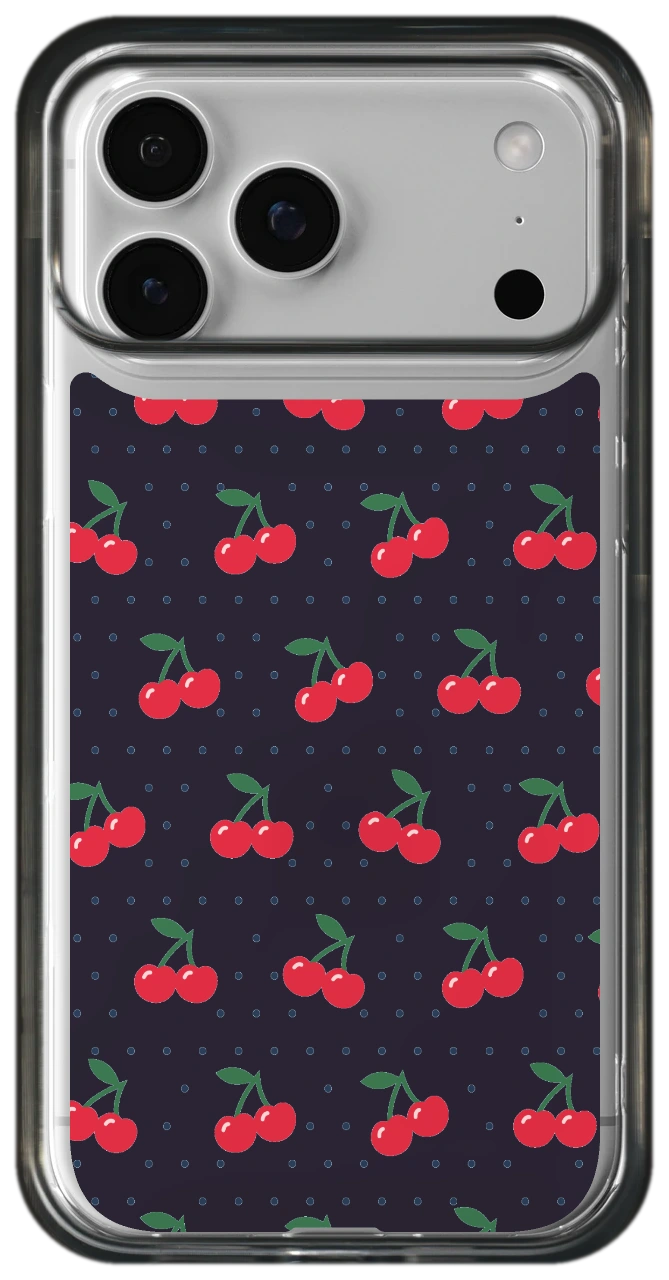
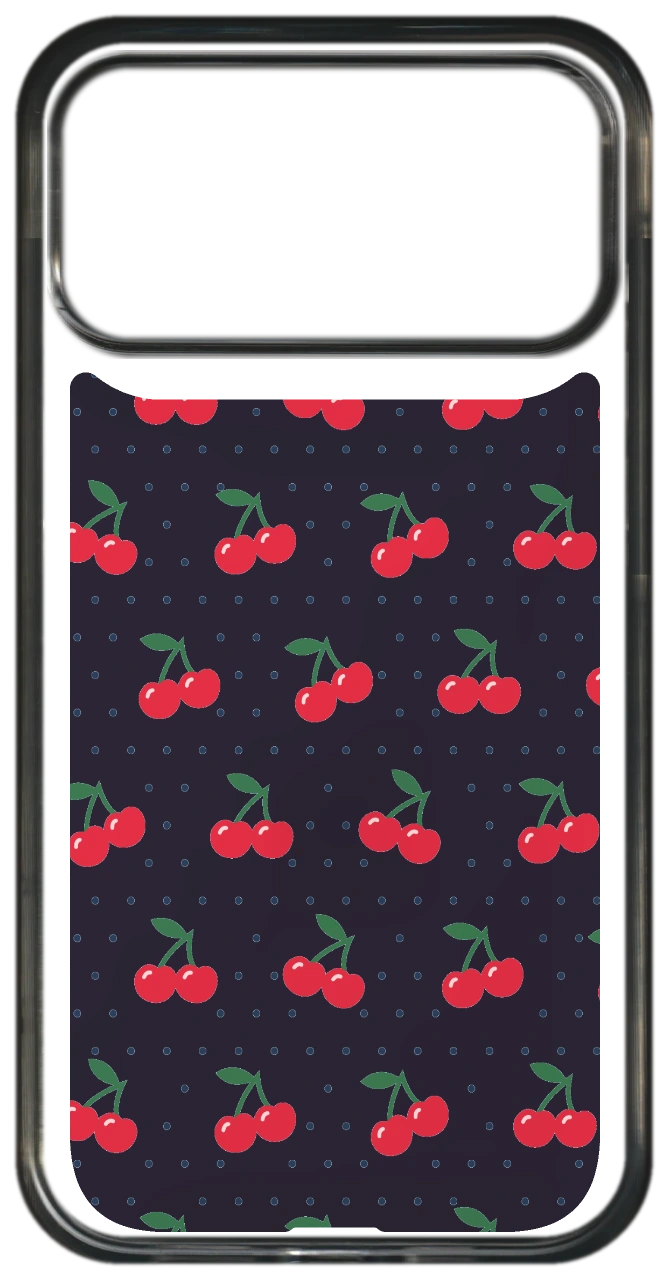
Show case-only previews and smooth the mobile counter journey

Changed region(s): [[0.0598, 0.0312, 0.9567, 0.9688]]

diff --git a/gallery.html b/gallery.html
@@ -88,7 +88,7 @@ h1{font-family:"Bricolage Grotesque","Nunito Sans",sans-serif;font-weight:800;le
   #grid .case-zoom-button canvas{display:block;width:100%;height:100%!important;object-fit:cover}
 </style>
 <link rel="stylesheet" href="assets/storefront.css">
-<script src="assets/case-shell.js"></script>
+<script src="assets/case-shell.js?v=case-view-2"></script>
 <script src="assets/print-layouts.js"></script>
 <script src="assets/colorway-catalog.js"></script>
 <script src="assets/design-colorways.js"></script>
@@ -129,6 +129,7 @@ h1{font-family:"Bricolage Grotesque","Nunito Sans",sans-serif;font-weight:800;le
       <div id="colorBar" style="display:flex;gap:10px;flex-wrap:wrap;align-items:center;margin-bottom:30px"></div>
       <div class="kpStep" id="step3Lab"><span class="kpStepN">3</span><span style="font-weight:900;font-size:15px;color:#2D2D3B">Tap a case you love</span></div>
       <div id="kpChips" style="position:sticky;top:0;z-index:45;display:none;background:rgba(255,255,255,.96);backdrop-filter:blur(8px);margin:0 -20px 10px;padding:10px 20px;border-bottom:1px solid #EFEDED;overflow-x:auto;white-space:nowrap;scrollbar-width:none"></div>
+      <div id="galleryCaseView" class="case-view-switch" role="group" aria-label="Case preview view" hidden style="width:max-content;margin:0 0 16px"><button type="button" data-view="case" aria-pressed="true">Case only</button><button type="button" data-view="phone" aria-pressed="false">On your phone</button></div>
       <div id="grid" style="min-height:70vh;display:grid;align-content:start;grid-template-columns:repeat(auto-fill,minmax(240px,1fr));gap:20px"></div>
     </div>
   </main>
@@ -195,6 +196,8 @@ h1{font-family:"Bricolage Grotesque","Nunito Sans",sans-serif;font-weight:800;le
       + '<button class="kpBrowseAllBtn" style="display:block;width:100%;max-width:420px;margin:24px auto 8px;background:#DC282E;color:#FFFFFF;border:0;padding:16px;border-radius:999px;font-size:14px;font-weight:900;letter-spacing:.05em;text-transform:uppercase;cursor:pointer">Browse all '+total+' designs</button></div>';
   }
   var entryParams = new URLSearchParams(location.search);
+  var previewMode=entryParams.get('view')==='phone'?'phone':'case';
+  window.__kpLimit=Math.min(1008,Math.max(48,Number(entryParams.get('n'))||48));
   if (entryParams.has('device')){
     var dp = entryParams.get('device').toLowerCase();
     var dp2 = dp.replace(/^(samsung|google)-/, '');
@@ -339,6 +342,7 @@ h1{font-family:"Bricolage Grotesque","Nunito Sans",sans-serif;font-weight:800;le
     card.querySelectorAll('a[href*="customizer.html"]').forEach(function(a){
       var url=new URL(a.href);
       url.searchParams.set('finish',chosen.n);
+      url.searchParams.set('view',previewMode);
       url.searchParams.set('colorway',artworkPicks[file]||'original');
       a.href=url.href;
     });
@@ -371,7 +375,7 @@ h1{font-family:"Bricolage Grotesque","Nunito Sans",sans-serif;font-weight:800;le
     loadDesign(file,function(){showPickedColor(card.querySelector('canvas'));});
   });
   function previewKey(file,finish){
-    return JSON.stringify([device,file,finish,artworkPicks[file]||'original']);
+    return JSON.stringify([device,file,finish,artworkPicks[file]||'original',previewMode]);
   }
   function renderCase(cv, file, colorIdx){
     if(!cv.width||!cv.isConnected||colorIdx!==+cv.dataset.color)return;
@@ -403,7 +407,8 @@ h1{font-family:"Bricolage Grotesque","Nunito Sans",sans-serif;font-weight:800;le
     var dev=KP_DEVICES[device],CW=cv.width,CH=cv.height,S=CW/2500;
     var ctx = cv.getContext('2d');
     ctx.clearRect(0, 0, CW, CH);
-    ctx.drawImage(layer, 0, 0, CW, CH);
+    var emptyCase=previewMode==='case'&&KPCaseShell.drawEmpty(ctx,device,CW,CH,vmask);
+    if(!emptyCase)ctx.drawImage(layer, 0, 0, CW, CH);
 
     // A known stencil is loading: show the phone until its actual panel is ready.
     if (KP_VIEW[device] && !vmask){
@@ -427,7 +432,7 @@ h1{font-family:"Bricolage Grotesque","Nunito Sans",sans-serif;font-weight:800;le
       tc.globalAlpha = 1; tc.globalCompositeOperation = 'destination-in';
       tc.drawImage(vmask, 0, 0, CW, CH);
       // Preserve the photographed silhouette, including its antialiased corners.
-      if(device==='iPhone 18 Pro Max'||device==='iPhone 18 Pro') ctx.globalCompositeOperation='source-atop';
+      if(!emptyCase&&(device==='iPhone 18 Pro Max'||device==='iPhone 18 Pro')) ctx.globalCompositeOperation='source-atop';
       ctx.drawImage(t, 0, 0);
       ctx.globalCompositeOperation='source-over';
       KPCaseShell.draw(ctx,device,CW,CH);
@@ -487,7 +492,7 @@ h1{font-family:"Bricolage Grotesque","Nunito Sans",sans-serif;font-weight:800;le
       try{return await detailedCase(model,finish,design,pick);}
       catch(error){
         const thumb=trigger.querySelector('canvas');
-        if(thumb?.width && thumb.dataset.renderedPreview===JSON.stringify([model,design.file,finish,pick]))return thumb;
+        if(thumb?.width && thumb.dataset.renderedPreview===JSON.stringify([model,design.file,finish,pick,previewMode]))return thumb;
         throw error;
       }
     },
@@ -543,6 +548,8 @@ h1{font-family:"Bricolage Grotesque","Nunito Sans",sans-serif;font-weight:800;le
     document.body.style.overflow='hidden';
   }
   function kpCloseDrawer(){
+    var opened=document.getElementById('kpDevScrim');
+    if(!opened || opened.style.pointerEvents!=='auto')return;
     pendingDesign=null;
     var sc=document.getElementById('kpDevScrim'), dw=document.getElementById('kpDevDrawer');
     if(!sc) return;
@@ -557,9 +564,11 @@ h1{font-family:"Bricolage Grotesque","Nunito Sans",sans-serif;font-weight:800;le
     var file = pendingDesign;
     kpCloseDrawer();
     if (file && selected) {
+      device=selected;saveBrowseFilters();
       location.assign('customizer.html?' + new URLSearchParams({design:file,model:slugify(selected),colorway:artworkPicks[file]||'original'}));
       return;
     }
+    if(!slug)return;
     device = selected;
     renderDeviceBar(); renderGrid();
     preloadDevice(device);
@@ -582,7 +591,7 @@ h1{font-family:"Bricolage Grotesque","Nunito Sans",sans-serif;font-weight:800;le
       var cur = m===device ? '<span style="margin-left:auto;color:#DC282E;font-weight:900">\u2713</span>' : '';
       return '<button data-md="'+slugify(m)+'" style="display:flex;align-items:center;width:100%;text-align:left;background:#FFF;border:1.5px solid '+(m===device?'#17171F':'#E9E7E4')+';border-radius:16px;padding:17px 20px;font-size:16.5px;font-weight:700;color:#17171F;cursor:pointer;margin:0 0 12px">'+m+badge+cur+'</button>';
     }).join('');
-    var flat='<button data-md="" style="display:block;width:100%;background:none;border:0;padding:14px;font-size:13.5px;font-weight:800;color:#6C6C72;cursor:pointer;text-decoration:underline;text-underline-offset:3px">Just browsing \u2014 show all cases</button>';
+    var flat='<button data-md="" style="display:block;width:100%;background:none;border:0;padding:14px;font-size:13.5px;font-weight:800;color:#6C6C72;cursor:pointer;text-decoration:underline;text-underline-offset:3px">Back to browsing</button>';
     dw.innerHTML=head+pills+'<div style="flex:1;overflow-y:auto;-webkit-overflow-scrolling:touch;padding:14px 20px 6px">'+rows+'</div>'+flat;
     dw.querySelector('#kpDwClose').addEventListener('click',kpCloseDrawer);
     dw.querySelectorAll('[data-pill]').forEach(function(b){ b.addEventListener('click',function(){ drawerBrand=this.dataset.pill; kpRenderDrawer();dw.querySelector('[data-pill="'+drawerBrand+'"]').focus(); }); });
@@ -625,7 +634,7 @@ h1{font-family:"Bricolage Grotesque","Nunito Sans",sans-serif;font-weight:800;le
     var sel=document.getElementById('wizCat');
     sel.addEventListener('change',function(){
       filter=this.value; searchQ='';
-      var si2=document.getElementById('wizSearch'); if(si2) si2.value='';
+      var si2=document.getElementById('wizSearch'); if(si2) si2.value=''; $('deskSearch').value='';
       renderFilters(); renderStates(); renderGrid();
     });
     var si=document.getElementById('wizSearch');
@@ -644,7 +653,7 @@ h1{font-family:"Bricolage Grotesque","Nunito Sans",sans-serif;font-weight:800;le
     var filters = {
       device: device && slugify(device), cat: filter === 'All' ? null : filter,
       q: searchQ, color: colorSel, state: filter === 'City maps' && stateSel,
-      all: kpBrowseAll && '1'
+      all: kpBrowseAll && '1', n:window.__kpLimit>48?window.__kpLimit:null, view:device&&previewMode==='phone'?'phone':null
     };
     Object.entries(filters).forEach(function(pair) {
       if (pair[1]) url.searchParams.set(pair[0], pair[1]);
@@ -719,7 +728,17 @@ h1{font-family:"Bricolage Grotesque","Nunito Sans",sans-serif;font-weight:800;le
 
   function canBuy(){ return !!(window.KP_VARIANTS && window.KP_VARIANTS['MagSafe Clear'] && window.KP_VARIANTS['MagSafe Clear'][device]); }
 
+  function syncCaseView(){
+    var panel=$('galleryCaseView');panel.hidden=!device||!KPCaseShell.canShowEmpty(device);
+    panel.querySelectorAll('button').forEach(function(b){b.setAttribute('aria-pressed',String(b.dataset.view===previewMode));});
+  }
+  function setCaseView(mode){
+    previewMode=mode;syncCaseView();saveBrowseFilters();
+    document.querySelectorAll('.kpCard').forEach(updateCaseLinks);refreshVisible();
+  }
+  $('galleryCaseView').addEventListener('click',function(e){var b=e.target.closest('[data-view]');if(b)setCaseView(b.dataset.view);});
   function renderGrid(){
+    syncCaseView();
     if(io)io.disconnect();
     saveBrowseFilters();
     kpChipsSync();
@@ -904,6 +923,7 @@ h1{font-family:"Bricolage Grotesque","Nunito Sans",sans-serif;font-weight:800;le
     if (dot){
       e.preventDefault();
       var card = dot.closest('.kpCard'); var cv = card.querySelector('canvas');
+      setCaseView('phone');
       var ci = +dot.dataset.ci; finishPicks.set(device+'|'+card.dataset.file, ci); card.dataset.selectedColor=ci;updateCaseLinks(card);
       cv.dataset.color = ci;
       loadCase(device, ci, function(){ renderCase(cv, cv.dataset.file, ci); });
@@ -941,7 +961,7 @@ h1{font-family:"Bricolage Grotesque","Nunito Sans",sans-serif;font-weight:800;le
     if (filter !== 'All' && !designs.some(function(x){ return x.category === filter; })) filter = 'All';
     renderDeviceBar(); renderFilters(); renderStates(); renderColors(); renderGrid();
     preloadDevice(device);
-    KPCaseShell.ready.then(refreshVisible);
+    KPCaseShell.ready.then(function(){syncCaseView();refreshVisible();});
     var brand=new URLSearchParams(location.search).get('brand');if(!device&&(brand==='Apple'||brand==='Samsung'))kpOpenDrawer(brand);
   }).catch(function(){
     $('grid').innerHTML = '<div style="padding:40px;font-weight:700;color:#6C6C72">Could not load designs.</div>';

diff --git a/customizer.html b/customizer.html
@@ -12,7 +12,7 @@
 <link rel="stylesheet" href="assets/staff-print.css">
 <script src="assets/print-png.js"></script>
 <script src="assets/print-geometry.js"></script>
-<script src="assets/case-shell.js"></script>
+<script src="assets/case-shell.js?v=case-view-2"></script>
 <script src="assets/mask-geometry.js"></script>
 <script src="assets/print-layouts.js"></script>
 <title>Design your keepsake — Keepsake Printing Co</title>
@@ -105,7 +105,7 @@ body{background:#FFFBF7}
 h1{font-family:"Bricolage Grotesque","Nunito Sans",sans-serif;font-weight:800;letter-spacing:-.01em}
 </style>
 <script src="assets/kp-config.js"></script>
-<script src="https://cdnjs.cloudflare.com/ajax/libs/heic2any/0.0.4/heic2any.min.js" defer></script>
+<script src="assets/heic-loader.js"></script>
 <script src="assets/colorway-catalog.js"></script>
 <script src="assets/design-colorways.js"></script>
 <script src="instore/instore-lib.js"></script>
@@ -149,6 +149,7 @@ h1{font-family:"Bricolage Grotesque","Nunito Sans",sans-serif;font-weight:800;le
             <canvas id="stageCanvas" width="2500" height="3000" style="display:none"></canvas>
             <!-- non-17PM placeholder note wrapper reuses stageEmpty -->
           </div>
+          <div id="caseViewSwitch" class="case-view-switch" role="group" aria-label="Case preview view" hidden><button type="button" data-view="case" aria-pressed="true">Case only</button><button type="button" data-view="phone" aria-pressed="false">On your phone</button></div>
           <section id="mobileDesignPicker" hidden aria-label="Preview options"></section>
           <button type="button" id="skyCaseZoom" hidden>Enlarge case</button>
           <div id="stageHint" style="font-size:12px;font-weight:700;color:#6C6C72;letter-spacing:.04em">Upload or drop a photo to begin</div>
@@ -436,11 +437,11 @@ h1{font-family:"Bricolage Grotesque","Nunito Sans",sans-serif;font-weight:800;le
   var state = {
     brand:'Apple', model:'iPhone 18 Pro Max', colorName:'Silver', colorHex:'#F5F5F5',
     photo:null, photoImg:null, photoUrl:null, filter:'none', variant:'original',
-    caseType:'MagSafe Clear',
+    caseType:new URLSearchParams(location.search).get('style')==='hybrid'?'Slim Hybrid MagSafe':'MagSafe Clear', previewMode:new URLSearchParams(location.search).get('view')==='phone'?'phone':'case',
     isLibraryDesign:false,
     text:'', textFont:0, textColor:'#FFFFFF', textSize:220, textPos:62, textVertical:false,
     px:0, py:0, scale:1, rot:0,
-    addons:{screen:new URLSearchParams(location.search).get('staff')==='1' && new URLSearchParams(location.search).get('glass')==='1',lens:false}, promo:null, reserved:false, fitMode:'fill',
+    addons:{screen:new URLSearchParams(location.search).get('glass')==='1',lens:new URLSearchParams(location.search).get('lens')==='1'}, promo:null, reserved:false, fitMode:'fill',
     layout:null, photos:[], slotTarget:null, builder:false, designPath:null
   };
   (function(){ var mm = /[?&]model=([^&]+)/.exec(location.search);var staffMode=new URLSearchParams(location.search).get('staff')==='1';if(staffMode){state.handoffErrorType='model';state.handoffError='Choose a valid phone from the print counter before printing.';}if (!mm) return;
@@ -544,7 +545,8 @@ h1{font-family:"Bricolage Grotesque","Nunito Sans",sans-serif;font-weight:800;le
   }
   var requestedFinish=new URLSearchParams(location.search).get('finish');
   var selectedKit=KITS[state.model];
-  if(selectedKit&&selectedKit.colors.some(function(c){return c.n===requestedFinish;}))state.colorName=requestedFinish;
+  var requestedColors=selectedKit&&(state.caseType==='Slim Hybrid MagSafe'&&selectedKit.hybrid?selectedKit.hybrid.colors:selectedKit.colors);
+  if(requestedColors&&requestedColors.some(function(c){return c.n===requestedFinish;}))state.colorName=requestedFinish;
 
   var canvas=$('stageCanvas'), ctx=canvas.getContext('2d');
   canvas.width=DIM.w*PS; canvas.height=DIM.h*PS;
@@ -850,7 +852,11 @@ h1{font-family:"Bricolage Grotesque","Nunito Sans",sans-serif;font-weight:800;le
     ctx.globalCompositeOperation='source-over';
     ctx.globalAlpha=1;
     ctx.clearRect(0,0,DIM.w,DIM.h);
-    ctx.drawImage(caseImg,0,0,DIM.w,DIM.h);
+    var emptyCase=state.previewMode==='case' && KPCaseShell.drawEmpty(ctx,state.model,DIM.w,DIM.h,viewReady&&viewMaskCanvas,state.caseType);
+    if(!emptyCase)ctx.drawImage(caseImg,0,0,DIM.w,DIM.h);
+    var canShowEmpty=!!(viewReady&&viewMaskCanvas&&KPCaseShell.canShowEmpty(state.model,state.caseType));
+    $('caseViewSwitch').hidden=!canShowEmpty;
+    $('caseViewSwitch').querySelectorAll('button').forEach(function(b){b.setAttribute('aria-pressed',String(b.dataset.view===state.previewMode));});
     if(viewImg && !viewReady) {
       KPCaseShell.draw(ctx,state.model,DIM.w,DIM.h,state.caseType);
       return;
@@ -882,7 +888,7 @@ h1{font-family:"Bricolage Grotesque","Nunito Sans",sans-serif;font-weight:800;le
         d2.drawImage(viewMaskCanvas,0,0,DIM.w,DIM.h);
         d2.globalCompositeOperation='source-over';
       } else { d2.restore(); }
-      if(state.model==='iPhone 18 Pro Max'||state.model==='iPhone 18 Pro') ctx.globalCompositeOperation='source-atop';
+      if(!emptyCase&&(state.model==='iPhone 18 Pro Max'||state.model==='iPhone 18 Pro')) ctx.globalCompositeOperation='source-atop';
       ctx.drawImage(dl,0,0,DIM.w,DIM.h);
       ctx.globalCompositeOperation='source-over';
       if(!useMask){
@@ -904,7 +910,7 @@ h1{font-family:"Bricolage Grotesque","Nunito Sans",sans-serif;font-weight:800;le
         t2.drawImage(viewMaskCanvas,0,0,DIM.w,DIM.h);
         t2.globalCompositeOperation='source-over';
       } else { t2.restore(); }
-      if(state.model==='iPhone 18 Pro Max'||state.model==='iPhone 18 Pro') ctx.globalCompositeOperation='source-atop';
+      if(!emptyCase&&(state.model==='iPhone 18 Pro Max'||state.model==='iPhone 18 Pro')) ctx.globalCompositeOperation='source-atop';
       ctx.drawImage(dl2,0,0,DIM.w,DIM.h);
       ctx.globalCompositeOperation='source-over';
       if(!useMask){
@@ -1153,8 +1159,8 @@ h1{font-family:"Bricolage Grotesque","Nunito Sans",sans-serif;font-weight:800;le
     if(f.size>40*1024*1024){kpToast('That photo is over 40MB — please use a smaller copy.');return;}
     if(/heic|heif/i.test(f.type||'')||/\.hei[cf]$/i.test(f.name||'')){
       if(typeof heic2any!=='function'){
-        if(!f.__kpWaited){f.__kpWaited=true;setTimeout(function(){if(current())loadPhoto(f,forceSlot);},1200);kpToast('One moment — getting that photo ready…');}
-        else kpToast('We could not load HEIC support. Try a JPG, PNG, or screenshot.');
+        kpToast('One moment — getting that photo ready…');
+        KPHeic.load().then(function(){if(current())loadPhoto(f,forceSlot);}).catch(function(){if(current())kpToast('We could not load HEIC support. Try again, or choose a JPG, PNG, or screenshot.');});
         return;
       }
       kpToast('Converting your photo…',4000);
@@ -1316,7 +1322,7 @@ h1{font-family:"Bricolage Grotesque","Nunito Sans",sans-serif;font-weight:800;le
   }
   document.addEventListener('click',function(e){
     var s=e.target.closest('.sw');
-    if(s){ state.colorName=s.dataset.n; state.colorHex=s.dataset.h; state.reserved=false;
+    if(s){ state.previewMode='phone'; state.colorName=s.dataset.n; state.colorHex=s.dataset.h; state.reserved=false;
       ['colorName','colorName2','colorName3','colorName4'].forEach(function(id){ var el=$(id); if(el) el.textContent=state.colorName; });
       $('miniPhone').style.background=state.colorHex;
       if (KITS[state.model]) loadKit(state.model);
@@ -1491,6 +1497,14 @@ h1{font-family:"Bricolage Grotesque","Nunito Sans",sans-serif;font-weight:800;le
     else { state.promo=null; m.textContent=code?'Hmm, we don’t recognize that code.':''; m.style.color='#DC282E'; }
     state.reserved=false; updateSummary();
   });
+  function saveLibraryOptions(){
+    var file=state.photoImg&&state.photoImg.__kpDesignFile;
+    if(!state.isLibraryDesign||!file||state.libraryLoading||state.photoImg.__kpIsThumb||new URLSearchParams(location.search).get('staff')==='1')return;
+    var url=new URL(location.href);
+    var options={design:file,model:state.model.toLowerCase().replace(/^samsung /,'').replace(/ /g,'-'),finish:state.colorName,colorway:state.variant,view:state.previewMode,glass:state.addons.screen?'1':null,lens:state.addons.lens?'1':null,store:state.store,style:state.caseType==='Slim Hybrid MagSafe'?'hybrid':null};
+    Object.entries(options).forEach(function(pair){if(pair[1])url.searchParams.set(pair[0],pair[1]);else url.searchParams.delete(pair[0]);});
+    if(url.href!==location.href)history.replaceState(history.state,'',url);
+  }
   function updateSummary(){
     var tkK=KITS[state.model], tOnly=!!(tkK&&tkK.toughOnly);
     /* KP_TOUGH_OFF: tough hidden — case types are Clear + Slim Hybrid (where available) */
@@ -1525,13 +1539,15 @@ h1{font-family:"Bricolage Grotesque","Nunito Sans",sans-serif;font-weight:800;le
       $('discountTop').textContent=p.name+' −$'+disc.toFixed(2); }
     $('reserveBtn').style.display=state.reserved?'none':'block';
     $('reservedBox').style.display=state.reserved?'block':'none';
+    saveLibraryOptions();
   }
   var KP_STORES=[
     {n:'West Chester, PA', a:'CPR Cell Phone Repair · West Chester'},
     {n:'Pottstown, PA', a:'CPR Cell Phone Repair · Pottstown'},
     {n:'Newark, DE', a:'CPR Cell Phone Repair · Newark'}
   ];
-  state.store=state.store||KP_STORES[0].n;
+  var requestedStore=new URLSearchParams(location.search).get('store');
+  state.store=KP_STORES.some(function(s){return s.n===requestedStore;})?requestedStore:KP_STORES[0].n;
   function renderStoreChips(){
     var el=$('storeChips'); if(!el) return;
     el.innerHTML=KP_STORES.map(function(st){
@@ -2139,6 +2155,10 @@ h1{font-family:"Bricolage Grotesque","Nunito Sans",sans-serif;font-weight:800;le
       };
     }
   }
+  $('caseViewSwitch').addEventListener('click',function(e){
+    var button=e.target.closest('[data-view]');if(!button)return;
+    state.previewMode=button.dataset.view;render();saveLibraryOptions();
+  });
   $('skyCaseZoom').onclick=function(){
     KPCaseZoom.open({title:'Your case',trigger:$('skyCaseZoom'),source:()=>{
       if(!caseReady || !lightReady || (viewImg && !viewReady)) throw Error('Case loading');

diff --git a/assets/case-shell.js b/assets/case-shell.js
@@ -67,6 +67,30 @@ window.KPCaseShell = (() => {
   function box(model) {
     return bounds[(model || '').replace(/^Samsung /, '')];
   }
+  function canShowEmpty(model, style = 'MagSafe Clear') {
+    return !!box(model) && /^iPhone /.test(model) && style === 'MagSafe Clear' && !!bumper.naturalWidth;
+  }
+  // A translucent case back using the same fitted panel as the artwork. The
+  // camera opening stays empty; phone cameras/colors belong only in mounted view.
+  const films = new WeakMap();
+  function drawEmpty(ctx, model, width, height, mask, style = 'MagSafe Clear') {
+    if (!mask || !canShowEmpty(model, style)) return false;
+    let film = films.get(mask);
+    if (!film) {
+      film = document.createElement('canvas');
+      const w=mask.naturalWidth||mask.width,h=mask.naturalHeight||mask.height;
+      if(!w||!h)return false;
+      const scale=Math.min(1,1000/h);
+      film.width=Math.round(w*scale);film.height=Math.round(h*scale);
+      const x = film.getContext('2d'); x.drawImage(mask, 0, 0, film.width, film.height);
+      x.globalCompositeOperation = 'source-in';
+      const sheen = x.createLinearGradient(0, 0, film.width, film.height);
+      sheen.addColorStop(0, 'rgba(236,241,241,.22)'); sheen.addColorStop(.5, 'rgba(215,225,227,.10)'); sheen.addColorStop(1, 'rgba(245,248,248,.28)');
+      x.fillStyle = sheen; x.fillRect(0, 0, film.width, film.height); films.set(mask, film);
+    }
+    ctx.drawImage(film, 0, 0, width, height);
+    return true;
+  }
   function draw(ctx, model, width, height, style = 'MagSafe Clear') {
     const b = box(model);
     // Galaxy and hybrid kit photos already include their fitted case hardware.
@@ -93,5 +117,5 @@ window.KPCaseShell = (() => {
     }
     ctx.restore();
   }
-  return {ready, box, draw, sampleReady, drawSample};
+  return {ready, box, draw, canShowEmpty, drawEmpty, sampleReady, drawSample};
 })();

diff --git a/assets/shop-refresh.css b/assets/shop-refresh.css
@@ -128,7 +128,7 @@ html:not(.staff-mode) .kp-customizer #exportLink,html:not(.staff-mode) .kp-custo
  #mobileDesignPicker .photo-look canvas{width:100%;height:33px;margin:0 0 3px}
  #mobileDesignPicker .photo-look span{min-height:24px;font-size:11px}
  .preview-picker-open #stageStick{gap:8px!important;min-width:0}
- .preview-picker-open #stageCanvas{width:min(70vw,210px,29vh);height:auto}
+ .preview-picker-open #stageCanvas{width:min(100%,340px,46vh);height:auto}
  .preview-picker-open .design-rail>div:has(+ #kpSelRow){display:none}
 }
 
@@ -163,3 +163,12 @@ html:not(.staff-mode) .kp-customizer #exportLink,html:not(.staff-mode) .kp-custo
 @media (pointer:coarse) and (orientation:landscape) and (max-height:410px) {
   html:not(.staff-mode) .kp-customizer #stageStick {position:static!important;}
 }
+
+.case-view-switch:not([hidden]){display:flex;justify-content:center;gap:4px;padding:4px;border:1px solid #c9c4cd;border-radius:999px;background:#fff;max-width:100%;box-sizing:border-box}
+.case-view-switch button{min-height:44px;border:0;border-radius:999px;padding:8px 18px;background:transparent;color:#29252d;font:800 13px var(--body,system-ui);cursor:pointer}
+.case-view-switch button[aria-pressed="true"]{background:#29252d;color:#fff}
+/* Personalization controls must not widen the viewport or push the counter CTA away. */
+.kp-customizer #textOpts>div:first-child{flex-wrap:wrap}
+.kp-customizer #textColors{flex-wrap:wrap;min-width:0;max-width:100%}
+.kp-customizer #textColors button{box-sizing:border-box;flex-shrink:0}
+.kp-customizer #textOpts input[type="range"]{min-width:0}

diff --git a/assets/heic-loader.js b/assets/heic-loader.js
@@ -1,0 +1,23 @@
+/* Load the optional decoder on demand; HEIC conversion runs in the browser. */
+window.KPHeic = (() => {
+  let pending;
+  function load() {
+    if (typeof window.heic2any === 'function') return Promise.resolve();
+    if (pending) return pending;
+    pending = new Promise((resolve, reject) => {
+      const script = document.createElement('script');
+      const finish = error => {
+        clearTimeout(timer);script.onload = script.onerror = null;
+        if (error) {script.remove();reject(error);} else resolve();
+      };
+      const timer = setTimeout(() => finish(new Error('HEIC decoder timed out')), 20000);
+      script.src = 'https://cdnjs.cloudflare.com/ajax/libs/heic2any/0.0.4/heic2any.min.js';
+      script.async = true;
+      script.onload = () => finish(typeof window.heic2any === 'function' ? null : new Error('HEIC decoder unavailable'));
+      script.onerror = () => finish(new Error('HEIC decoder failed to load'));
+      document.head.append(script);
+    }).catch(error => {pending = null;throw error;});
+    return pending;
+  }
+  return {load};
+})();
